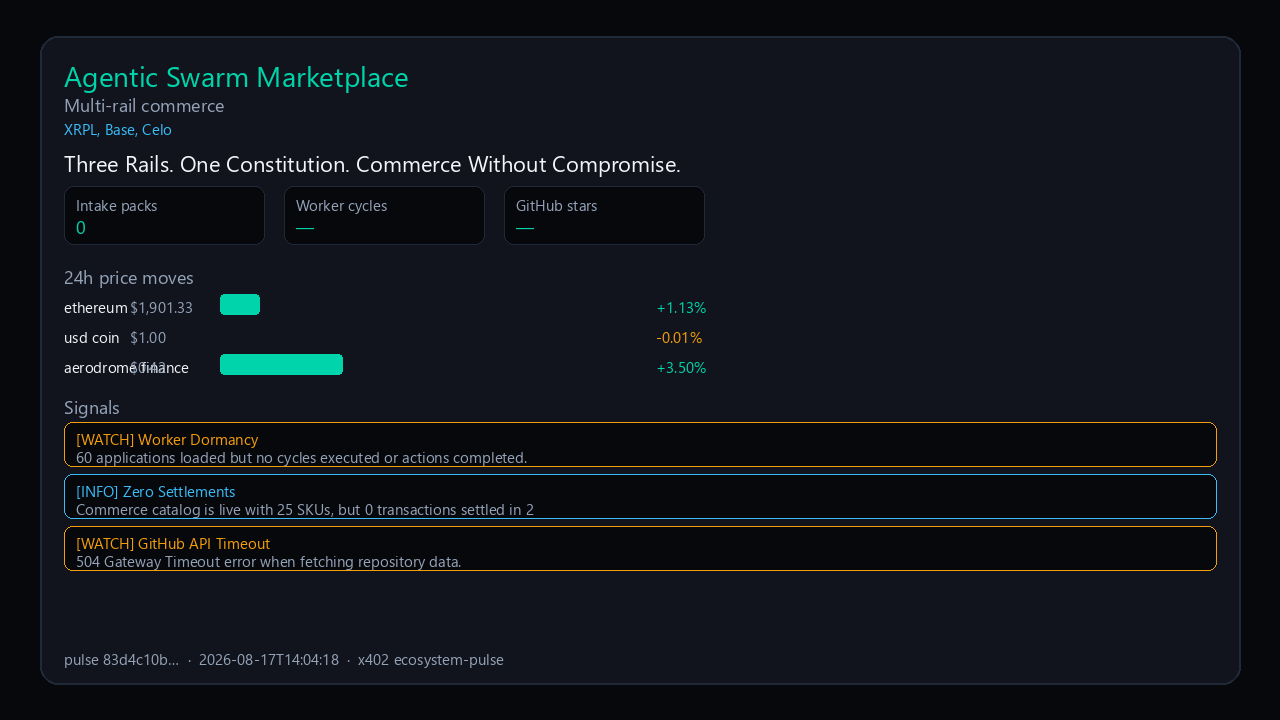
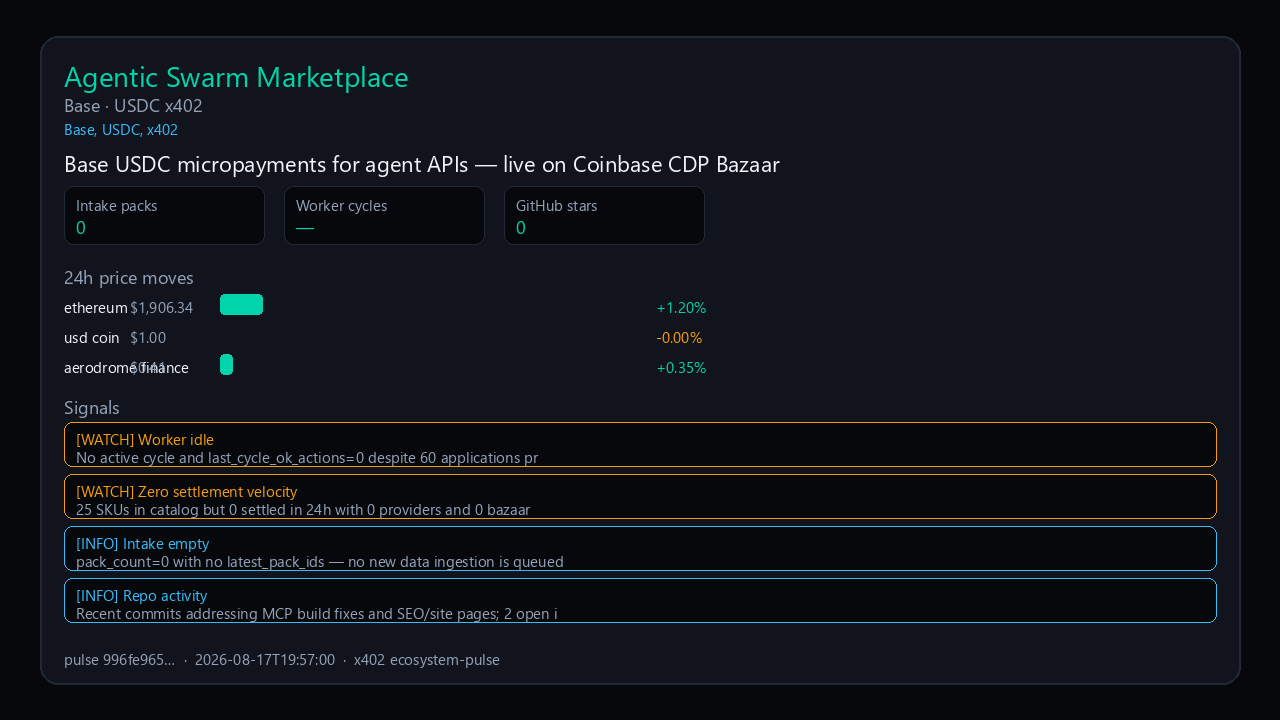
chore(site): SEO pages, sitemap, connect-agents, pulse board

diff --git a/docs/index.html b/docs/index.html
@@ -608,7 +608,7 @@
   <section id="celo-x402">
     <div class="container">
       <h2 class="section-title">Celo native x402 seller — api_402</h2>
-      <p class="section-sub">Live on the unified API host at <a href="https://api.agentic-swarm-marketplace.com/celo/query?q=hello" target="_blank" rel="noopener" style="color: var(--accent-cyan);"><code>/celo/query</code></a> (<strong>Celo Sepolia</strong> today; mainnet contract deploy on roadmap). HTTP <strong>402</strong> with CELO payment terms; buyers submit <code style="color: #a5b4fc;">AgentRevenueService.fulfillQuery</code>, then retry with <code style="color: #a5b4fc;">X-Payment-Tx-Hash</code>.</p>
+      <p class="section-sub">Live on the unified API host at <a href="https://api.agentic-swarm-marketplace.com/celo/query?q=hello" target="_blank" rel="noopener" style="color: var(--accent-cyan);"><code>/celo/query</code></a> (<strong>Celo mainnet</strong> chain 42220). HTTP <strong>402</strong> with CELO payment terms; buyers submit <code style="color: #a5b4fc;">AgentRevenueService.fulfillQuery</code>, then retry with <code style="color: #a5b4fc;">X-Payment-Tx-Hash</code>.</p>
 
       <div class="t54-spotlight">
         <h3>Service details</h3>
@@ -616,7 +616,7 @@
         <div class="t54-badges">
           <span class="t54-badge x402">HTTP 402</span>
           <span class="t54-badge xrpl" style="background: rgba(245,158,11,0.2); color: #fcd34d;">CELO</span>
-          <span class="t54-badge caip">CAIP-2 eip155:11142220</span>
+          <span class="t54-badge caip">CAIP-2 eip155:42220</span>
           <span class="t54-badge fac">fulfillQuery</span>
         </div>
         <div class="t54-grid">
@@ -640,6 +640,7 @@
         </table>
         <div class="t54-cta">
           <a href="https://api.agentic-swarm-marketplace.com/celo/query?q=hello" target="_blank" rel="noopener" class="btn btn-primary">Probe (expect 402)</a>
+          <a href="https://celoscan.io/address/0xF00Ebb2F7704E35593cE5Bf9349921C8567c5fE4" target="_blank" rel="noopener" class="btn btn-secondary">AgentRevenueService</a>
           <a href="https://github.com/Hobie1Kenobi/agentic-crypto-swarm-prototype/blob/master/documentation/operations/CELO_X402_SELLER.md" target="_blank" rel="noopener" class="btn btn-secondary">CELO_X402_SELLER.md</a>
           <a href="https://github.com/Hobie1Kenobi/agentic-crypto-swarm-prototype/blob/master/packages/agents/api_402.py" target="_blank" rel="noopener" class="btn btn-secondary">api_402.py</a>
         </div>
@@ -908,8 +909,8 @@
           <div><strong>Live public Olas adapter</strong> — Gnosis/Base intake → paid x402 SKUs (T54 / Base / Celo)</div>
         </li>
         <li>
-          <span class="roadmap-badge planned">Planned</span>
-          <div><strong>Celo mainnet AgentRevenueService</strong> — Deploy revenue contract on chain 42220 for production CELO sales</div>
+          <span class="roadmap-badge done">Done</span>
+          <div><strong>Celo mainnet AgentRevenueService</strong> — Revenue contract on chain 42220; public <code>/celo/query</code> 402 uses <code>0xF00Ebb2F7704E35593cE5Bf9349921C8567c5fE4</code></div>
         </li>
       </ul>
     </div>
